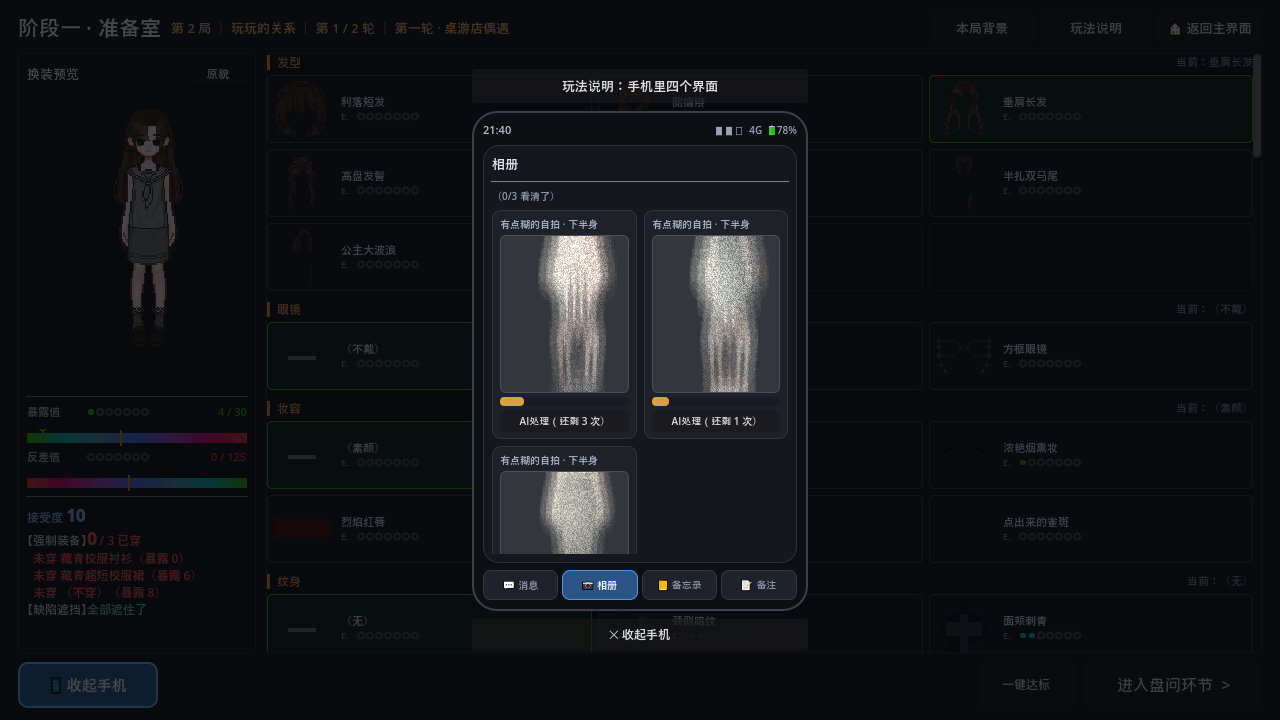
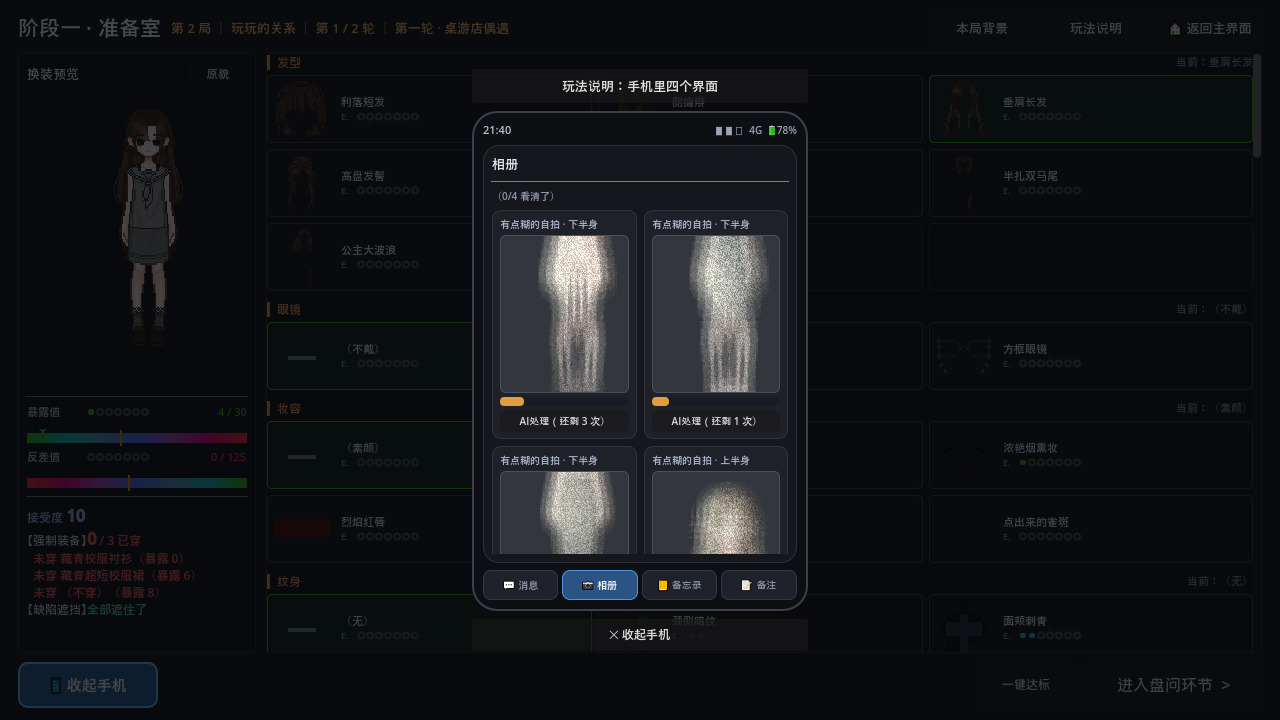
第 94 轮：「玩玩的关系」开局相册多一张上半身

diff --git a/.workbuddy-ai/memory/MEMORY.md b/.workbuddy-ai/memory/MEMORY.md
@@ -1,14 +1,14 @@
 # 项目长期笔记（千面人 · 伪装与高压审讯）
 
-> 只放**每轮都要用的规矩**；查阅型内容 → `REFERENCE.md`；诊断与改动清单 → 按轮次分文件。
+> 只放**每轮都要用的规矩**；查阅型 → `REFERENCE.md`；明细 → 分轮次文件。
 
 ## 一、工作流
 
 ### 一轮的收尾动作
 
-1. `CHANGELOG.md` 追加一节 → **git 提交一次**，提交信息 = 那节第一行。「测试」那行**必须是真跑过的数字**；
+1. `CHANGELOG.md` 追加一节 → **git 提交一次**，提交信息 = 那节第一行。「测试」行必须是真跑过的数字；
    同轮第二块工作写「第 N 轮（续）」。
-2. `README.md` 写「为什么这么改 / 机制 / 数值表 / 踩坑」；被作废的旧句**加 ★ 作废说明**。
+2. `README.md` 写「为什么这么改 / 机制 / 数值表 / 踩坑」；被作废的旧句**加 ★ 说明**。
 3. `memory/` 写明细 —— 分文件，进版本库（`.workbuddy-ai/tmp/` **不进**）；`MEMORY.md` **控在 17KB 内**。
 
 ★ **memory 权威目录 = `D:\workbuddy\2026-10-11-09-19-59\.workbuddy-ai\memory\`（进版本库）**；
@@ -28,35 +28,34 @@ godot --path . res://tests/Screenshot.tscn                 # 截图 ★ 非 head
 ★ 编辑器直读 `data/story.json`（`open_story_editor.bat` 起 `story_server.py` 8765；`file://` 只读）。
 ★ **改完 story.json 跑 `build_story_editor.py` 重建快照**（冒烟读那份）。
 ★ **`open_story_editor.bat` 纯 ASCII + CRLF**。★ `--check-only --script` **不加载 autoload**。
-★ 「没动代码不用跑四套验证」（10-15）：纯文档 / 清点 / 加工具**跳过**。
-★ 长测试 `run_in_background` + 重定向到 `.workbuddy-ai/tmp/*.log`；跑时别改它读的资源。
-★★ 开游戏窗口截图 / 调试**别让它待在最前排**（2026-10-19）：用 `tools/run_unfocused.ps1`。
+★ 「没动代码不用跑四套验证」（10-15）：纯文档 / 清点 / 加工具跳过。
+★ 长测试 `run_in_background` + 重定向到 `.workbuddy-ai/tmp/*.log`。
+★★ 开游戏窗口截图 / 调试**别让它待最前排**（10-19）：用 `tools/run_unfocused.ps1`。
 ★★ **删掉一段测试 = 改掉「下一个测试用的是哪一局」**（第 92 轮踩）：那段末尾若有
   `start_new_run(N)`，删了之后下一段就吃前一段留下的种子 → 断言成片翻转，看着像回归。
   定位：两版各插一行打 `seed_value/background_id`；修法：给它**显式钉一局**。
-  ★★ **基线对照必须两版都钉同一局**再比，否则比的是「两局不同的人」。
+  ★★ **基线对照必须两版都钉同一局**再比。
 
 ### 术语（2026-10-15 定义）
 
-**一局** = 一套背景 + 若干轮；**一轮** = 一次换装 + 问答（`level_index`）。统一用「轮」。
-★ 界面称呼（第 93 轮）：审讯官 = **男主**、C = **男二**（C 是狗那套写「男二（狗）」）；
-  只在 `story.json` 文案里，代码记号仍是 A/B/C。
+**一局** = 一套背景 + 若干轮；**一轮** = 一次换装 + 问答（`level_index`）。
+★ 界面称呼（93 轮）：审讯官 = **男主**、C = **男二**（C 是狗那套写「男二（狗）」）。
 ★ 批量替换「本关→本轮 / 每关→每轮 / 关卡→轮次」，**不动**「通关 / 过关 / 关键 / 关闭」。
-★ 别用 `line.split('#')[0]` 切注释（`[color=#8a919c]` 会被当注释起点）。
+★ 别用 `split('#')[0]` 切注释（`[color=#xxx]` 会被当注释起点）。
 
 ## 二、改数据的几条链路
 
 ### ★★ 逐轮类字段：只有背景页那一份（第 83 轮删掉了全局那页）
 
 「背景 → ⑦ 本局覆写 · 几轮」写 `bg.levels[i]`，**游戏真正读的就是它**。
-★ **标题写着「说明」不等于有说明字段** —— 排查「改不了」先数 `fields` 的键。
-★ 选关面板的轮次名要用 `Main._levels_for_panel(bg_id)`（另两个都取「当前这一局」）。
+★ **标题写「说明」不等于有说明字段** —— 排查「改不了」先数 `fields` 的键。
+★ 选关面板的轮次名要用 `Main._levels_for_panel(bg_id)`（另两个取「当前这一局」）。
 
 ### 改一句界面文案 → 同时找三处
 
 ① `ScenarioData.gd` 的 `DEFAULT_*`（兜底）；② `data/story.json`（**实际读的**）；③ `tests/*.gd` 的**期望值**。
 ★ **改了占位符数量 = 改了接口**。六处同步：`_tf(...)` → `DEFAULT_*` → `story.json` → **占位符守卫**（两处）
-→ 编辑器字段表 → `ui` 的 `ph:true`。★ `phone.*` 另有 `PHONE_SEGS` / `PH_EXPECT` 两处。
+→ 编辑器字段表 → `ui` 的 `ph:true`。★ `phone.*` 另有 `PHONE_SEGS` / `PH_EXPECT`。
 ★ 数据里的**空串**会静默盖掉 `DEFAULT_*` 整句（第 71 轮「掏手机越界一片空白」）。
 
 ### ★ story.json 的合并规则
@@ -75,8 +74,8 @@ godot --path . res://tests/Screenshot.tscn                 # 截图 ★ 非 head
 - `data/story.json` 的 `catalog` → 重导；`tools/story_editor.html` 的 `TRUE_POOL` → **手改**（JS 常量区）
 - `screenshots/_flow_overview.png` → **重跑** `tools/flow_overview.py`（**最容易漏**，不在四套验证里）
 
-★ 改完权威表问一句「**哪些地方抄了它**」——出厂数据一改，**冒烟断言要跟着改**
-（catalog 计数有**两处**：条目数 + 能往返）。★ `DumpStory` **只导出不删** → 删条目直接逐行改 JSON。
+★ 改完权威表问「**哪些地方抄了它**」——出厂数据一改，**冒烟断言要跟着改**
+（catalog 计数有**两处**）。★ `DumpStory` **只导出不删** → 删条目直接改 JSON。
 
 ### 加新物品的固定顺序
 
@@ -114,8 +113,8 @@ godot --path . res://tests/Screenshot.tscn                 # 截图 ★ 非 head
 
 - **没写 `qte` 的题 = `none`**（题目自带 > 按题号表 > none）；`QTE_NONE` 连**随机递话**一起关。
   **`fixed` 第 1 轮也生效**（`li <= 0` 只挡 `random`）。★ **第 83 轮撤掉「有规则就自动升级 fixed」**
-  （它让 `{"mode":"none","rules":[…]}` 的脏数据真的强制了玩家）；`mode: none` 就是没要求。
-- ⚠ `scene_1` 第 1 轮强制短袖校服 → 反差只到 **105 < 125**（用户配的内容，只报告）。
+  （否则 `{"mode":"none","rules":[…]}` 的脏数据会真的强制玩家）；`mode: none` 就是没要求。
+- ⚠ `scene_1` 第 1 轮强制短袖校服 → 反差只到 **105 < 125**（用户配的，只报告）。
 
 ### ★★ 缺陷（defects）只有背景一层（第 83 轮续 2 定稿）
 
@@ -130,11 +129,13 @@ godot --path . res://tests/Screenshot.tscn                 # 截图 ★ 非 head
 ★ 盲区反馈抬头改 **「他的脾性」**、**直接读性情表**（作者不写也有依据）。
 ★ 字段表抽成 `memoFields()`，两份轮次表**共用**。详见 `REFERENCE.md` 九章。
 
-### ★ 相册废片预算 / 选关面板 / 启动声明（第 86~88 轮）
+### ★★ 相册：张数门面 / 废片预算 / 选关面板（86~88 · 94 轮）
 
-详 `REFERENCE.md` 八章。废片预算**按批重置**（开局 2 / 每批 1），用完**只抬 `max_wipes` 不重抽照片**；
-上半身**一律带 hair**（→ 随机流偏移）；`_levels_for_panel()` **别拼 `derived_profile`**；
-通关后 `_pending_action = "home"`；`splash_layer` 盖 3 秒。
+详 `REFERENCE.md` 八章。「玩玩的关系」开局**多一张强制上半身**（3+1）——
+**张数期望值只走 `photos_expected_for_level()`**（`resume_run` 与测试都调它，套公式必漏）；
+额外张**并进同一批**（否则废片预算从 2 变 3）；强制那张**不吃 `_rng.randi()`**。
+废片预算**按批重置**（开局 2 / 每批 1），用完**只抬 `max_wipes` 不重抽**；上半身**一律带 hair**；
+`_levels_for_panel()` **别拼 `derived_profile`**；通关后 `_pending_action = "home"`。
 
 ### ★★ 反差公式（第 85 轮定稿）
 
@@ -144,46 +145,46 @@ godot --path . res://tests/Screenshot.tscn                 # 截图 ★ 非 head
 ```
 「换了件」分：基础 2 / **发型 12** / 妆容 10（`DEFAULT_RULES` + 编辑器「⑥ 反差」）——
 两条件缺一不可；穿回原貌仍须 0；`base_id == ""` **不加分**。
-★ 发型 7 件 / 眼镜 3 / 妆 5/6 / 鞋 3 全是暴露 0（那几栏以前白换）。
+★ 发型 7 件 / 眼镜 3 / 妆 5/6 / 鞋 3 全是暴露 0（以前白换）。
 ★★ **`contrast_req` 每套背景自己的**（`bg.levels[i]`）—— 一个 125 适配不了三套，
-上限实测 **126 / 193 / 162**；改它按「随机搭配约 1/4 能过」定。★ **接受度不是瓶颈**（第 85 轮）：
+上限实测 **126 / 193 / 162**；改它按「随机搭配约 1/4 能过」定。★ **接受度不是瓶颈**：
 10 → 16 时 DP 最优恒 126、只用 24/30 暴露 —— 卡住的是**结构**（强制件锁死某格）。
 
 ★★ **`story.json` 逐行替换：先打印区间结束行看一眼**，写盘后断言「**所有**同级段条数没变」
-（第 83 轮 `forced_rules` 的 `{...}` 提前闭合，把 `defects` 整段吞了）。
+（第 83 轮 `forced_rules` 的 `{...}` 提前闭合，吞了 `defects` 整段）。
 ★ 四项流程覆写**只在背景页 ⑦ 里配**。★ **机制测试别依赖「数据配没配」**：自备数据跑完还原。
 
 ### ★★ 删功能先 grep「谁真的读它」（第 92 轮）
 「外貌情报」三段拼出的 18 条文案**从没在界面上显示过**（只被测试调），却消耗随机数、占一整页
-编辑器。★ 删掉消耗 `_rng` 的代码 = **随机流前移**：背景/原貌不变，照片/性情/强制装备会变。
+编辑器。★ 删消耗 `_rng` 的代码 = **随机流前移**（背景/原貌不变，照片/性情/装备会变）。
 
 ### ★★ 结局文案：留空 = 用「玩玩的关系」当模板（第 91 轮定稿）
 
 ★★ **推翻了第 81 轮的「不写就不显示」**（用户口径「不加 %s 也不会报错，将玩玩的关系的结局文案，
 作为未填写时自动显示的模板」）。现在的规则：
 
-- `ENDING_TEMPLATE_BG_ID := "scene_1"`；`endings_of()` = **模板打底 + 自己写的逐键覆盖**。
-  「未填写」= 缺键 / 空串 / 全空白；模板也没有的键才空串。
+- `ENDING_TEMPLATE_BG_ID := "scene_1"`；`endings_of()` = **模板打底 + 自己的逐键覆盖**。
+  「未填写」= 缺键 / 空串 / 全空白；模板也没的键才空串。
 - ★★ **模板实时读数据里那套的 endings**，不许抄进 `DEFAULT_ENDINGS`（两个真相源）。
 - ★★ **带占位符的文案一律 `fmt_args()`，不许裸 `t % args`**：个数不符时 GDScript **返回空串**
-  （不是原串）—— 去掉 `%s` 会让整屏空白。`%%` 当转义跳过。
+  —— 去掉 `%s` 会让整屏空白。`%%` 当转义跳过。
 - ★ 做不到「这一句不显示」。空 → 标题/正文/提示收起、按钮只留箭头。
 
 ## 三、测试怎么写（细则见 `REFERENCE.md` 五章）
 
-- ★★ **校验面板只放「问题」** —— 出厂数据必须 **0 错误 0 提醒**。**一片提醒先怀疑规则本身**。
+- ★★ **校验面板只放「问题」** —— 出厂数据必须 **0 错误 0 提醒**。**一片提醒先怀疑规则**。
 - ★★ **跑完看三样**：`Failures: 0`、**有没有 `SCRIPT ERROR`**、**断言总数有没有莫名减少**
   —— 报错不会让测试失败，只会让那一行静默消失。取数组用 `_arr_of(d, key)`。
 - **防「空转通过」**：循环一次都不进 = 什么都没测；`_check(..., true)` 也是空转
   （第 92 轮差点留下一条）。**加「样本里确实查到 N 条」的断言**。
 - ★ **写断言的四个老坑**：① 只对部分对象生效的规则配**对照断言**；② 写完**故意改回错的**验证能抓到；
-  ③「非空」看不见「少做一步」→ 判**数值范围**；④「单调」前**先写下取样点数值**。
-  ★ 验「文本不重复」去掉「A. 」前缀再比（前缀把重名盖住，第 77 轮）。
-- ★★ **别让断言依赖「上一个测试留下的局」**（随机种子 → 假失败）。★ 断言「涨 N 点」前先**钉死基数**。
-- ★ **纯函数测不出「时间线上的 bug」** → 随轮次变的状态要走**完整流程探针**。
-- ★★ **背景不止一种形态时测试要自己挑**：`scene_*` 是 `manual`；依赖某类数据的**钉在 `_canonical_bg()`**。
+  ③「非空」看不见「少做一步」→ 判**数值范围**；④「单调」前**先写下取值点**。
+  ★ 验「文本不重复」去掉「A. 」前缀再比（第 77 轮，前缀把重名盖住）。
+- ★★ **别让断言依赖「上一个测试留下的局」**（随机种子 → 假失败）；断言「涨 N 点」前**钉死基数**。
+- ★ **纯函数测不出「时间线上的 bug」** → 状态随轮次变要走**全流程探针**。
+- ★★ **背景不止一种形态时测试要自己挑**：`scene_*` 是 `manual`；依赖某类数据的**钉 `_canonical_bg()`**。
 - **用完清跨局状态**：`ProfileData.reset_all()` + 注入的 `_*_presets` 清回 `{}`。
-- ★ **改全局数值 / 删文案键** → `tests/` 与 `editor_smoke.js` 里写死的计数会成片挂，改用常量或 `>=`。
+- ★ **改全局数值 / 删文案键** → `tests/` 与 `editor_smoke.js` 写死的计数成片挂，改用常量或 `>=`。
 - ★★ **删代码前 grep 它定义的局部变量**（第 83 轮带走 `knownTags` → 冒烟 `ReferenceError`）；
   删局部变量要搜**整个函数体**（续 2 漏了 `declared`，autoload 起不来）。
 
@@ -198,7 +199,8 @@ godot --path . res://tests/Screenshot.tscn                 # 截图 ★ 非 head
 
 1. **先退回 HEAD 重拍**（三方对照）：`③新 vs ②HEAD = 0` 而 `①提交 vs ② ≠ 0` → 仓库那张是旧货。
 2. **「时对时错」先查这一屏状态钉没钉死**，再查定时器（`set_process(false)` **停不住 `create_timer()`**）。
-3. **判噪声**：同代码连跑两次 —— 若差异量级相当，就是抖动（相册 / shake / QTE 判负本就每次都变）。
+3. **判噪声**：同代码连跑两次 —— 差异量级相当就是抖动。★ 对照取 `git show HEAD:screenshots/*.png`，
+   **别「跑之前 cp」**（异步任务，cp 常落在跑完之后 → 对照组是新的，看成「没变」）。
 4. ★ 报「真变」要给机制上的量 + 差异百分比 + bbox。工具 `tools/cmp_shots.py`。
 
 ### ★★ 截图脚本「前置不满足就跳过」= 静默留过期图（第 89 轮）
@@ -209,7 +211,7 @@ godot --path . res://tests/Screenshot.tscn                 # 截图 ★ 非 head
 ## 四、数值曲线的规矩（展开见 `REFERENCE.md` 七章）
 
 ★ **一局 2 轮**；**反差要求 125 / 150**；**暴露上限 = 10 + 接受度 × 2**（第 1 轮 → 30，第 2 轮 → 48）。
-★ **怀疑度**：起点 20、过关线 100、`leak_delta = 100`。改过关线按「预算 = 线 − 起点」等比重标增量。
+★ **怀疑度**：起点 20、过关线 100、`leak_delta = 100`。改过关线按「预算 = 线 − 起点」等比重标。
 ★ **接受度 vs 衣服**：156 件、`acceptance_req` 最大 **15**；第 1 轮 10 基本全开、第 2 轮 19 全开。
 ★ 标定用 `WardrobeModel.auto_complete_outfit()`（`_dp_optimum` 会高估）；探针覆盖测试种子池。
 ★ **反差 = 全槽位求和**；改口径要同时**拉开原貌池** + **重标 `contrast_req`**。
@@ -218,15 +220,15 @@ godot --path . res://tests/Screenshot.tscn                 # 截图 ★ 非 head
 
 ## 五、架构约定（详见 `REFERENCE.md` 六章）
 
-- **★ 只用 AU 图包（第 37 轮）**：产物只有 `assets/dol_au/` + `data/doll_au.json`，取景框 **68×203**。
+- **★ 只用 AU 图包**：产物只有 `assets/dol_au/` + `data/doll_au.json`，取景框 **68×203**。
   **成装（`dress`）= 两层源图叠加**（只取一层只有上半身）；加新成装先查 `upper/` 与 `lower/`。
 - **两条槽位名单语义相反**：`DISABLED_SLOTS` = 下架、`MANUAL_SLOTS` = 只能手动装备（**别混用**）。
-  **多件槽位（`tattoo: 2`）**：`equipped` 里单件 = `String`、多件 = `Array` → **一律走访问器**。
+  **多件槽位（`tattoo: 2`）**：单件 = `String`、多件 = `Array` → **一律走访问器**。
 - **运行时覆写用 `static var`**：**「原地改容器」**；`_load_story()` 读完反调 `apply_*()`；落盘**只写差异条目**。
-  **★★ 调用点顺序不一致 → 改「写」的时机，不改调用点（第 71 轮）**：累加 + `call_deferred` 追加。
+  **★★ 调用点顺序不一致 → 改「写」的时机，不改调用点（第 71 轮）**：累加 + `call_deferred`。
 - **★ 一个文本变量服务多个选项时别整句替换**（第 77 轮）：只给「⚠ 前缀」。
 
-### 五条硬规矩（展开见 `REFERENCE.md`）
+### 五条硬规矩
 
-① 「N / M」的分子分母必须同一个集合。② 改「初始化顺序」前先 grep 谁依赖它。③ 结构约束优于概率约束。
-④ 稳定随机用确定性哈希，不能用 `RandomNumberGenerator`。⑤ DP 去重的键用归一化字段。
+① 「N / M」的分子分母同一集合。② 改「初始化顺序」前先 grep 谁依赖它。③ 结构约束优于概率约束。
+④ 稳定随机用确定性哈希，不用 `RandomNumberGenerator`。⑤ DP 去重的键用归一化字段。

diff --git a/.workbuddy-ai/memory/2026-10-19-第九十四轮-开局多一张上半身.md b/.workbuddy-ai/memory/2026-10-19-第九十四轮-开局多一张上半身.md
@@ -1,0 +1,79 @@
+# 第九十四轮 · 「玩玩的关系」开局相册多一张上半身
+
+日期：2026-10-19
+
+## 用户口径
+
+> 「把玩玩的关系第一轮相册里加一个上半身」
+
+追问确认：
+1. **多一张（共 4 张）** —— 不是「仍 3 张但保证有上半身」
+2. **直接写死** —— 不做成背景可配字段
+
+## 实测（改动前）
+
+第 1 轮 3 张，上/下半身随机。`SHOT_SEED = 20261011` → scene_1 的相册是
+**3 张全下半身**（`["下","下","下"]`），一张上半身都没有。
+
+## 改动
+
+### `scripts/RunData.gd`
+
+```gdscript
+const EXTRA_UPPER_BG := "scene_1"
+
+func _photo_extra() -> int:
+	return 1 if str(background().get("id", "")) == EXTRA_UPPER_BG else 0
+
+func photos_expected_for_level(li: int) -> int:
+	return ScenarioData.PHOTO_COUNT_START \
+		+ ScenarioData.PHOTO_COUNT_PER_LEVEL * li + _photo_extra()
+```
+
+- `_roll_photos()`：`_append_photos(START + extra, extra)`
+- `_append_photos(n, force_upper_tail := 0)`：批尾 `force_upper_tail` 张强制上半身
+- `_make_photo(force_half := "")`：强制分支**跳过 `_rng.randi()`**
+- `resume_run()`：`need = photos_expected_for_level(level_index)`
+
+### ★★ 三个关键决定
+
+1. **并进同一批，不另调一次 `_append_photos()`**
+   —— 后者会因为「相册非空」把废片预算切到每批 1 张，开局上限从 2 变 3，
+   破坏第 88 轮的口径。
+2. **强制那张不吃随机数**
+   —— 所以前 3 张与改动前**逐张一致**，只有末尾多一张。实测 20261011：
+   `["下","下","下"]` → `["下","下","下","上"]`。
+3. **期望张数收进一个门面** `photos_expected_for_level(li)`
+   —— 它是整局固定偏移（+1），`resume_run()` 补照片与三处测试断言原来各算一遍公式，
+   少一处就会「续玩回来少一张」。
+
+### 测试（`tests/WardrobeTest.gd`）
+
+- 开局张数断言改成走门面
+- 新增 4 条：5 个种子「= 3 + 1 张」/ 多出来的是上半身 / 别的背景仍是 3 张 /
+  强制只作用于末尾一张（`["下","下","下","上"]`，证明前 3 张没被推歪）
+- 废片预算那段的「开局批」改成 `photos_expected_for_level(0)` —— 第 4 张也计入预算
+- 逐轮追加那段的起点与终点都走门面
+
+## 测试结果
+
+| 套件 | 本轮 | 第 93 轮 |
+|---|---|---|
+| WardrobeTest | **572 / 54** | 568 / 54（+4 条新断言全过，失败集逐条一致） |
+| TestRunner | 745 / 72 | 745 / 74（背景随机挑到 scene_1，少两条既有结构断言） |
+| 编辑器冒烟 | 337 / 38 | 337 / 38（不变） |
+
+## 截图
+
+- `SHOT_SEED = 20261011` 正好抽到 scene_1 → 相册从 **3 张变 4 张**，可见验证。
+- 与 HEAD 比：`06_phone_album` 4.46%、`07_phone_album_cleared` 3.77%，
+  bbox 都在相册网格区（`(511,192,788,554)`）—— 第 2 行多一个卡片。
+- 其余 15 张（盘问屏 14~20%、备忘录 0.8%）判为既有整屏错位噪声，已 `git checkout --` 还原。
+  ★ 这批图每次跑都不同（第 93 轮实测同代码两次跑差 4.8~16.8%）。
+
+## ★ 踩到的坑：对照组拍错了
+
+第一次判噪声时，我把 `cp -r screenshots .tmp/shot_93` 放在**截图任务跑完之后**执行 ——
+拿到的是新图，于是「与上一轮对比 = 0 张不同」，看起来像「改动没生效」。
+正确做法：**对照必须取 `git show HEAD:screenshots/*.png`**，不能靠「跑之前 cp 一份」。
+（这次就是先用 HEAD 版比才发现 06/07 确实变了。）

diff --git a/CHANGELOG.md b/CHANGELOG.md
@@ -1786,6 +1786,27 @@
 - **没动的**：`ScenarioData.DEFAULT_UI` 的兜底值是「审讯官 / 同行者」（不含这两个词，
   且比「男主」更保守 —— 万一 story.json 丢了，界面不该武断地把审讯官叫成男主）。
 
+### 第 94 轮：「玩玩的关系」开局相册多一张上半身
+
+- 用户口径：「把玩玩的关系第一轮相册里加一个上半身」。追问确认：
+  **多一张（共 4 张）**，且**直接写死**（不做成背景可配字段）。
+- 实测改动前：第 1 轮 3 张、上/下半身随机 —— 种子 20261011 抽到的是**3 张全下半身**，
+  一张上半身都没有。
+- **实现**：`_roll_photos()` 里开局这一批改成 `_append_photos(START + extra, extra)` ——
+  多拍 `extra` 张、且**这几张排在批尾强制上半身**（`_append_photos` 新增 `force_upper_tail`，
+  `_make_photo` 新增 `force_half`）。`EXTRA_UPPER_BG := "scene_1"` 写死，`_photo_extra()` 判背景。
+- ★★ **并进同一批、而不是再调一次 `_append_photos()`** —— 后者会走到「相册非空 →
+  废片预算变成每批 1」那条分支，开局的废片上限悄悄从 2 变 3，破坏第 88 轮的口径。
+- ★★ **强制那张不吃随机数**（`_make_photo(force)` 里强制分支跳过 `_rng.randi()`）——
+  所以前 3 张与改动前逐张一致，只有末尾多一张。实测种子 20261011：
+  `["下","下","下"]` → `["下","下","下","上"]`。
+- ★★ **期望张数收进一个门面** `RunData.photos_expected_for_level(li)`：
+  它是**整局固定偏移**（+1），`resume_run()` 补照片与三处测试断言原来各算一遍公式，
+  少一处就会「续玩回来少一张」。
+- 测试：换装 **572 / 54**（第 93 轮 568 / 54 —— +4 条新断言全过，失败集逐条一致）、
+  端到端 **745 / 72**（背景随机挑到 scene_1，少两条既有结构断言）、编辑器冒烟 **337 / 38**（不变）。
+- 截图：`SHOT_SEED = 20261011` 正好抽到 scene_1，相册从 **3 张变 4 张** —— 可见验证。
+
 ## 测试规模的变化（只有实测过的数据点）| 轮次 | WardrobeTest | TestRunner | 编辑器冒烟 | 手机冒烟 |
 |---|---|---|---|---|  
 | 第 27 轮末 | 430 | 886 | 151 | 97 |  
@@ -1828,6 +1849,7 @@
 | 第 91 轮末 | 580 | **753** | **334** | —（结局文案安全格式化 + 玩玩的关系当模板；冒烟少掉 4 条失败=用户文案没写 %s 的假报错）|
 | 第 92 轮末 | **568** | **745** | **337** | —（删外貌情报整套；检查数 -12 全是主动删的，失败集与基线一致）|
 | 第 93 轮末 | 568 | **745** | 337 | —（角色代号改名：纯数据替换，三套数字一个没变）|
+| 第 94 轮末 | **572** | 745 | 337 | —（玩玩的关系开局多一张上半身；+4 条断言）|
 
 ## 测试耗时的变化（第五十二轮起，两套测试跑完都会打印）
 

diff --git a/.workbuddy-ai/memory/REFERENCE.md b/.workbuddy-ai/memory/REFERENCE.md
@@ -831,3 +831,43 @@ func fmt_args(t: String, args: Array) -> String:
 
 ★ 想恢复「信息不全」这条体验，别照抄旧实现 —— 见 README「下一步」那条：
 应该让**相册成为唯一的原貌来源**，而不是重新引入一套没人读的文案。
+
+## 十二、相册张数与「额外上半身」（第 94 轮）
+
+### 门面
+
+```gdscript
+const EXTRA_UPPER_BG := "scene_1"
+
+func _photo_extra() -> int:              # 整局固定偏移：这套背景多几张
+	return 1 if str(background().get("id", "")) == EXTRA_UPPER_BG else 0
+
+func photos_expected_for_level(li: int) -> int:
+	return ScenarioData.PHOTO_COUNT_START \
+		+ ScenarioData.PHOTO_COUNT_PER_LEVEL * li + _photo_extra()
+```
+
+- `resume_run()` 补照片用 `need = photos_expected_for_level(level_index)`。
+- 测试里凡是「期望几张」都调它 —— 各自套公式必漏（这就是它存在的理由）。
+- 每套背景**各自一套**：scene_1 开局 4 张、一局 6 张；其余开局 3 张、一局 5 张。
+
+### 生成
+
+`_roll_photos()` → `_append_photos(START + extra, extra)`；
+`_append_photos(n, force_upper_tail)` 让**批尾** `force_upper_tail` 张强制上半身；
+`_make_photo(force_half)` 在 `force_half != ""` 时跳过 `_rng.randi()`。
+
+### 三个约束（改动时别破坏）
+
+1. **额外张必须并进开局同一批** —— 另调一次 `_append_photos()` 会让
+   `photos.is_empty()` 为 false，废片预算从「开局 2」切成「每批 1」。
+2. **强制分支不能消耗随机数** —— 否则同一颗种子的前 3 张会变，
+   截图、相册单测、`PHOTO_SEEDS` 那批断言全部要重录。
+3. **批尾而不是批首** —— 批首会让前几张全部错位；批尾只多一张，前面的逐张不变。
+
+### 验证
+
+- 换装测试新增 4 条：5 个种子「= 3+1 张」/ 多出来的是上半身 / 别的背景仍 3 张 /
+  `["下","下","下","上"]`（证明强制只作用于末尾）。
+- 废片预算那段的「开局批张数」也改成 `photos_expected_for_level(0)` —— 第 4 张计入预算。
+- 截图 `SHOT_SEED = 20261011` 正好抽到 scene_1，相册 3 → 4 张可见。

diff --git a/README.md b/README.md
@@ -236,6 +236,9 @@
 - 照片**逐轮新增**：开局 3 张，之后每过一轮**追加 2 张**（累加，旧照片保留）——
   所以一局 2 轮下来是 **5 张**。
   ★ 旧句「相册在开局一次性抽完（4 张）、不逐关新增」是**第四十三轮之前**的实情，已作废。
+  ★★ **第九十四轮：「玩玩的关系」开局多拍一张上半身**（3 + 1 = 4 张）——
+  它并进**同一批**（废片预算仍只有 2 张），且强制那一张在批尾。
+  之后每轮仍 +2，所以这套一局 2 轮是 **6 张**。别的背景不受影响（仍 3 → 5）。
 
 ---
 
@@ -5023,7 +5026,7 @@ UI 上也会标出「已连上文件 / 记忆里有上次的文件」。
 | 一张照片几件 | 1 件 | **1~N 件**（从该组随机取子集，至少 1 件） |
 | 可能出现的槽位 | 13 类 | **5 类**（眼镜 / 发型 / 上衣 / 下装 / 鞋子） |
 | 取景框 | 按槽位裁特写 | `PHOTO_FOCUS_HALF`（两个半身框） |
-| 数量 | 固定 5 张 | **开局 3 张 + 每轮 2 张**（累加） |
+| 数量 | 固定 5 张 | **开局 3 张 + 每轮 2 张**（累加）；★ 第九十四轮起「玩玩的关系」开局**多一张强制上半身**（3+1） |
 
 **② 两组不混**
 
